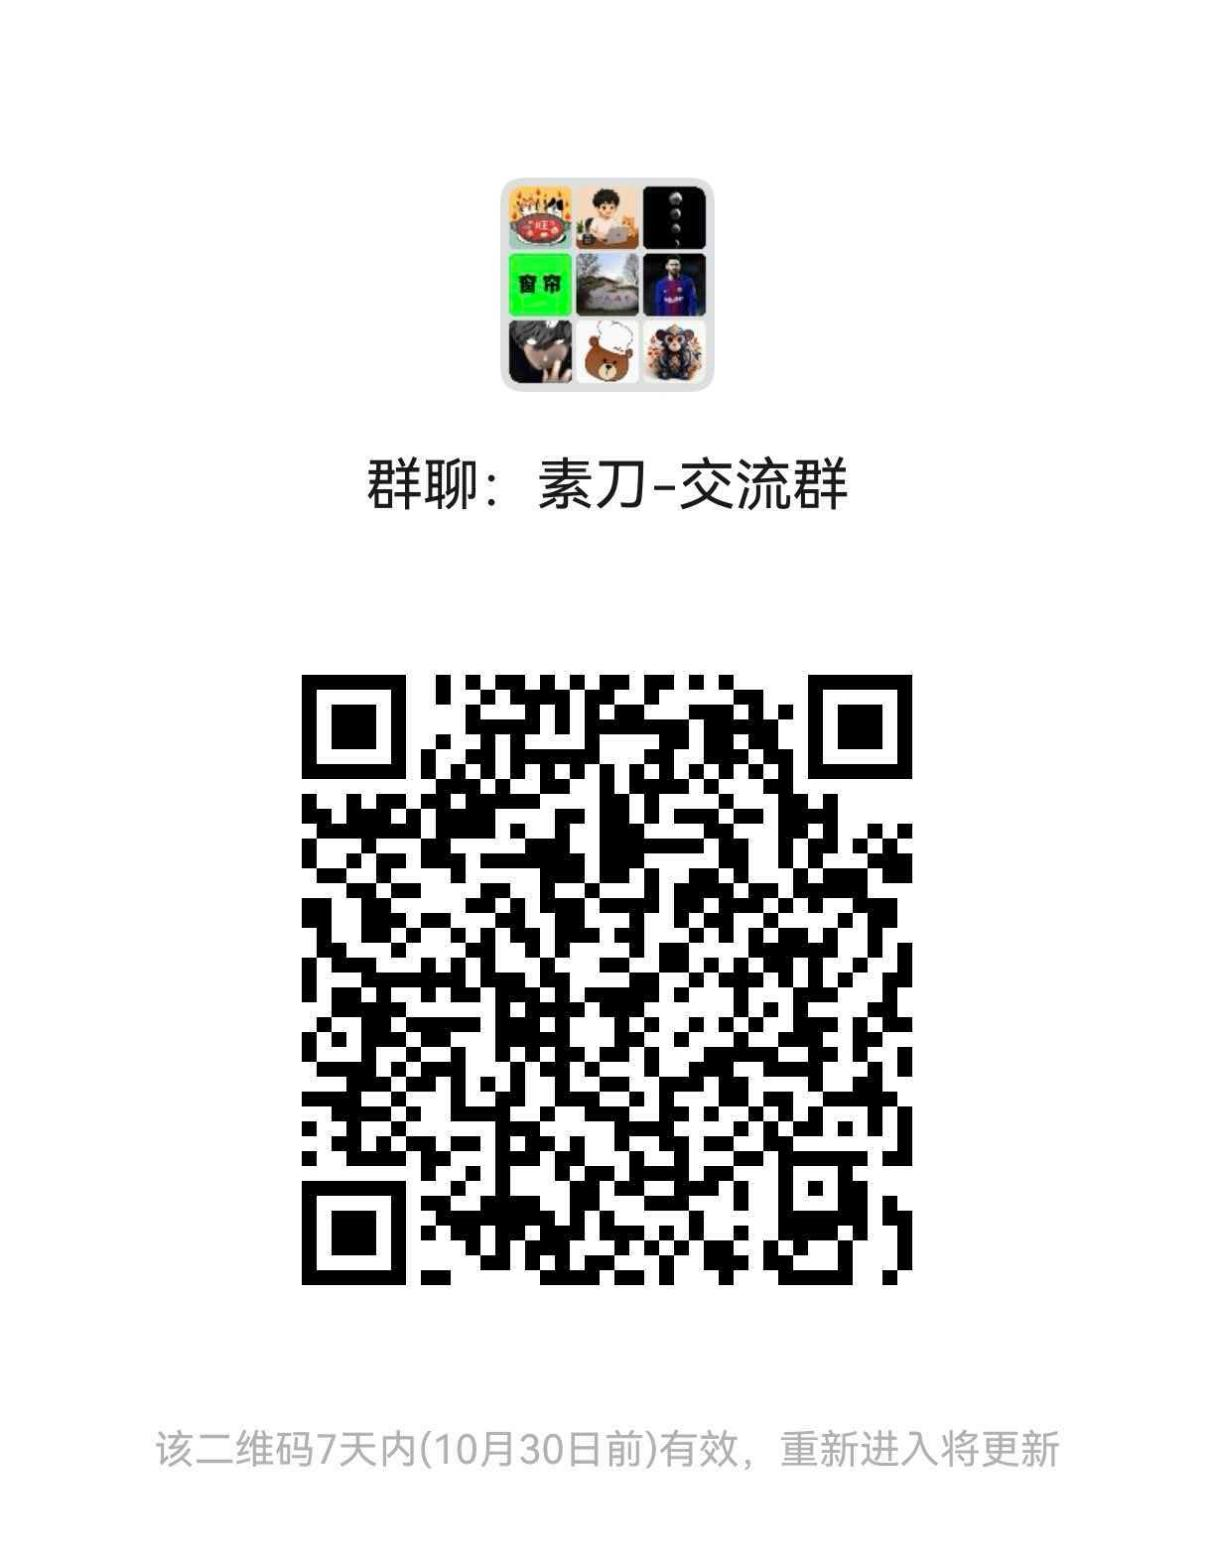
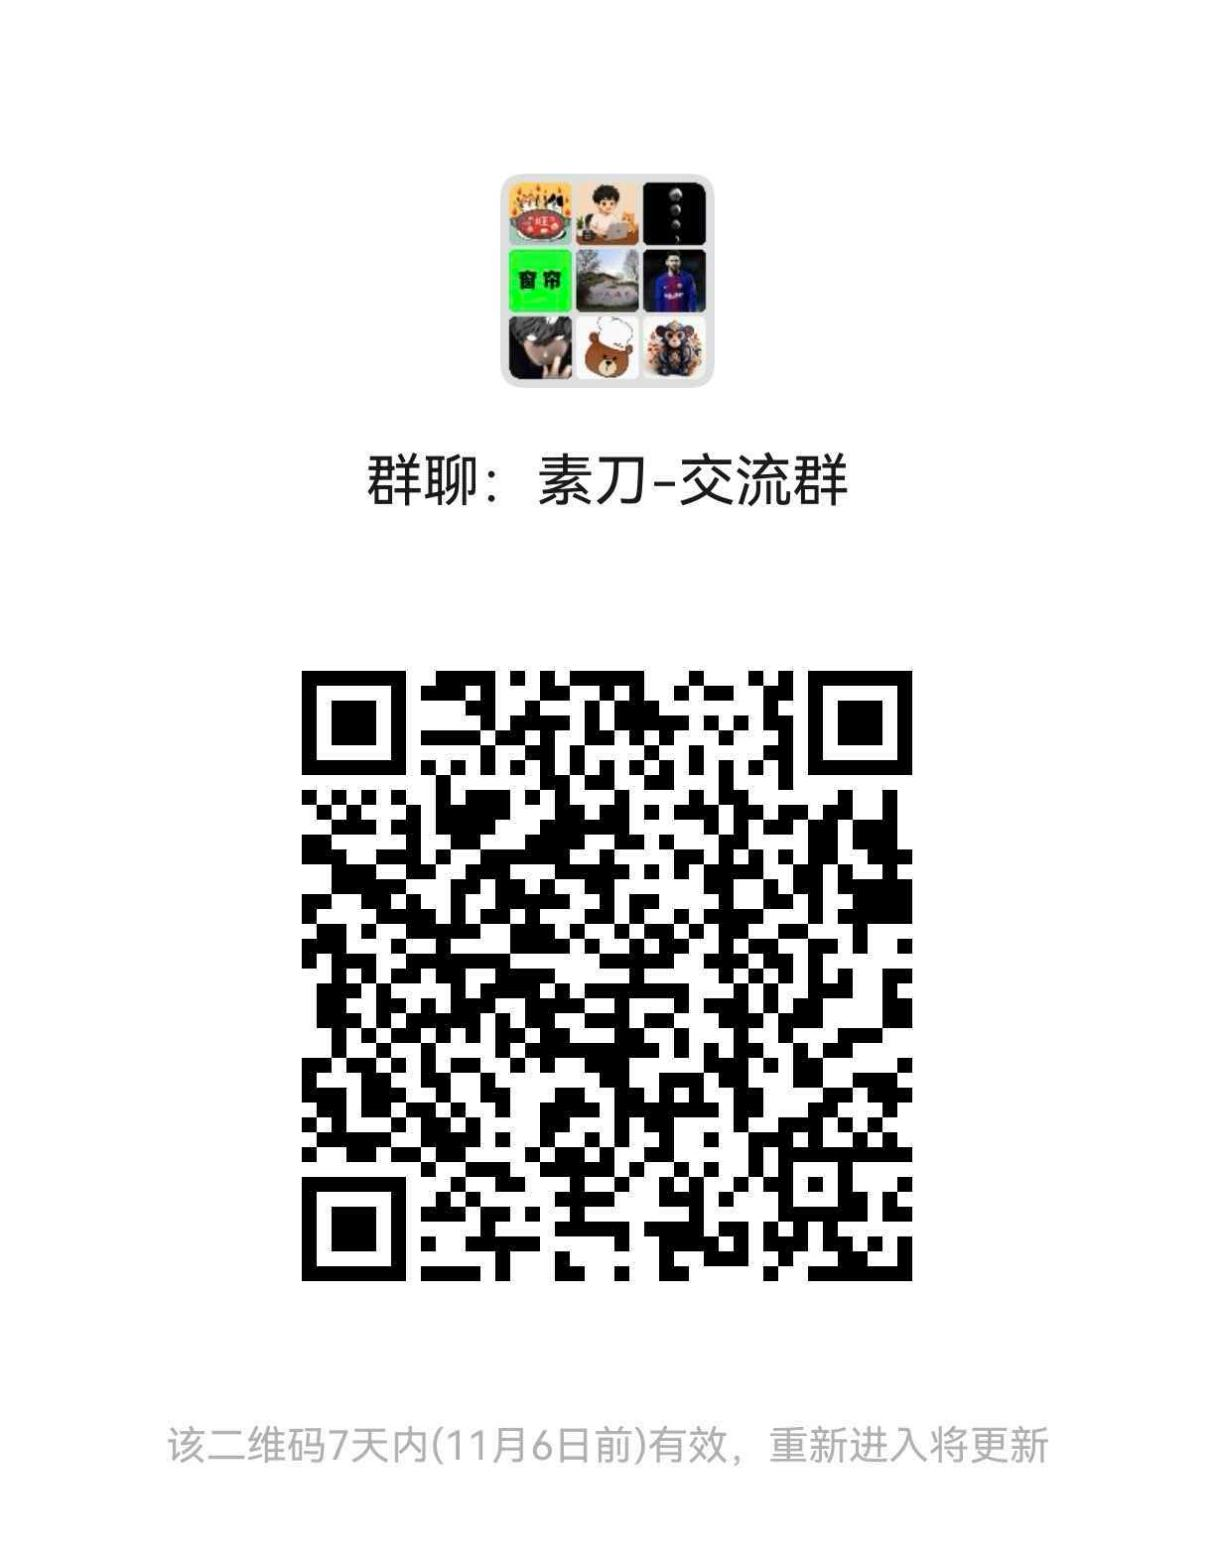
docs: wechat

diff --git a/docs/index.html b/docs/index.html
@@ -673,7 +673,7 @@
             <h2 class="text-xl md:text-xl font-bold mb-4">有问题可以联系作者，或加入交流群</h2>
             <div class="flex flex-col sm:flex-row items-center justify-center gap-4 mb-8">
               <a href="assets/wechat.jpg" target="_blank" rel="noopener noreferrer"><img src="assets/wechat.jpg" alt="素刀作者微信二维码" loading="lazy" decoding="async"><span>联系作者 ↗</span></a>
-              <a href="assets/wechatgroup1030.jpg" target="_blank" rel="noopener noreferrer"><img src="assets/wechatgroup1030.jpg" alt="素刀用户交流群二维码" loading="lazy" decoding="async"><span>加入交流群 ↗</span></a>
+              <a href="assets/wechatgroup1106.jpg" target="_blank" rel="noopener noreferrer"><img src="assets/wechatgroup1106.jpg" alt="素刀用户交流群二维码" loading="lazy" decoding="async"><span>加入交流群 ↗</span></a>
             </div>
           </div>
         </div>
